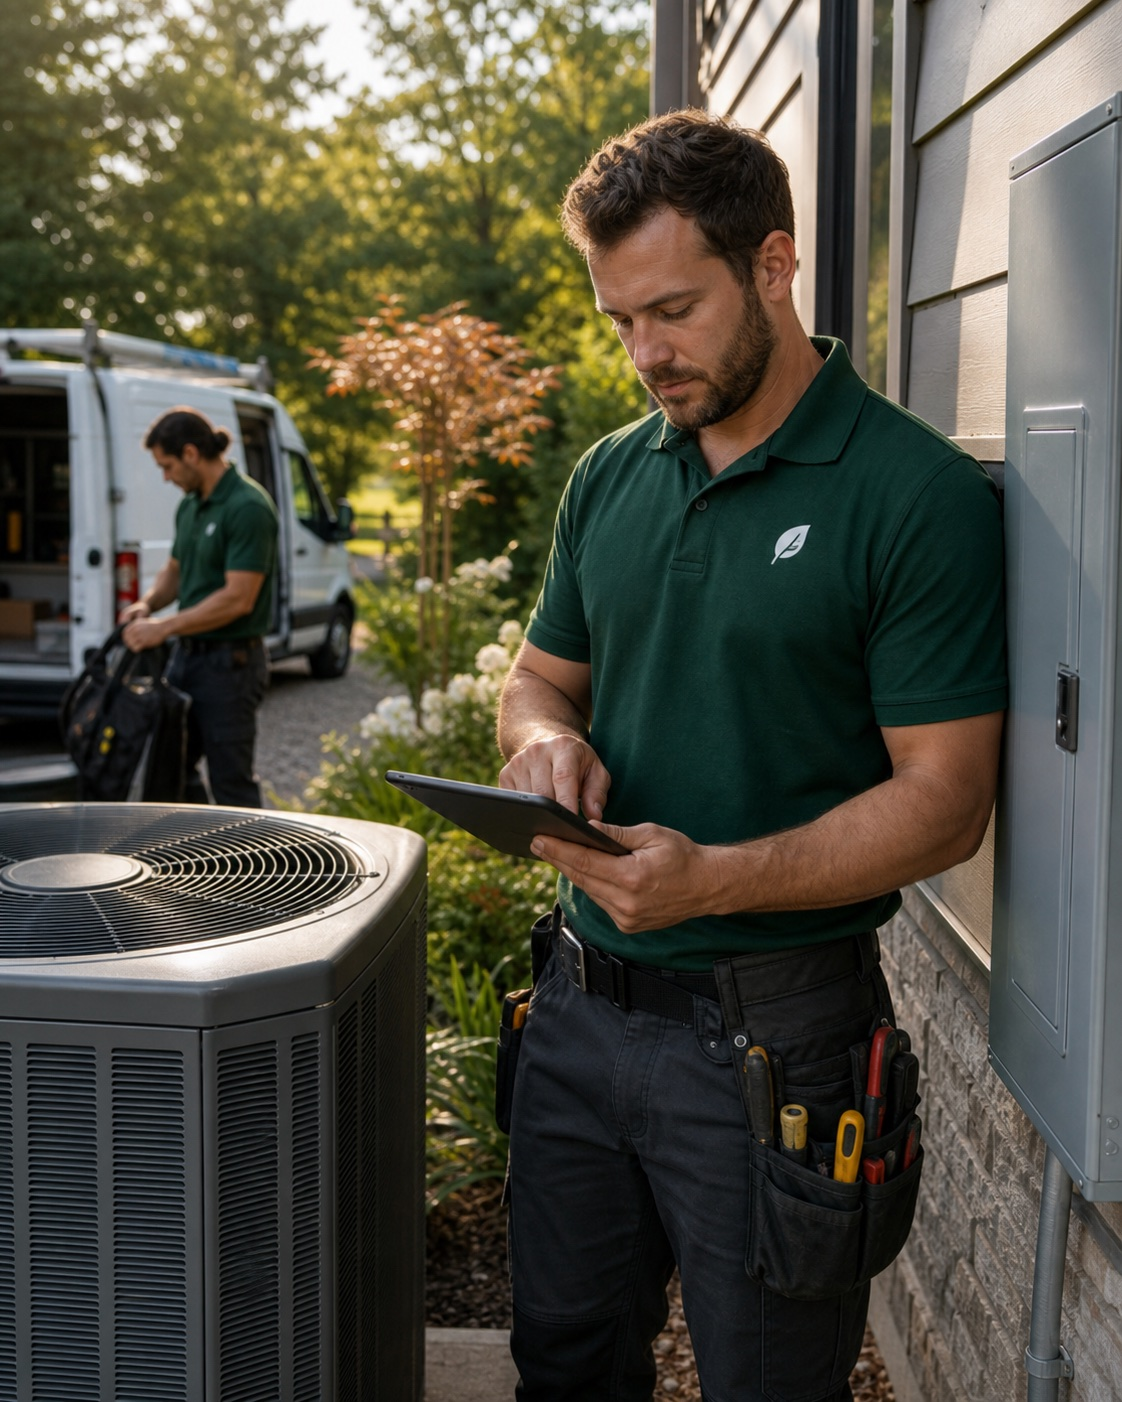
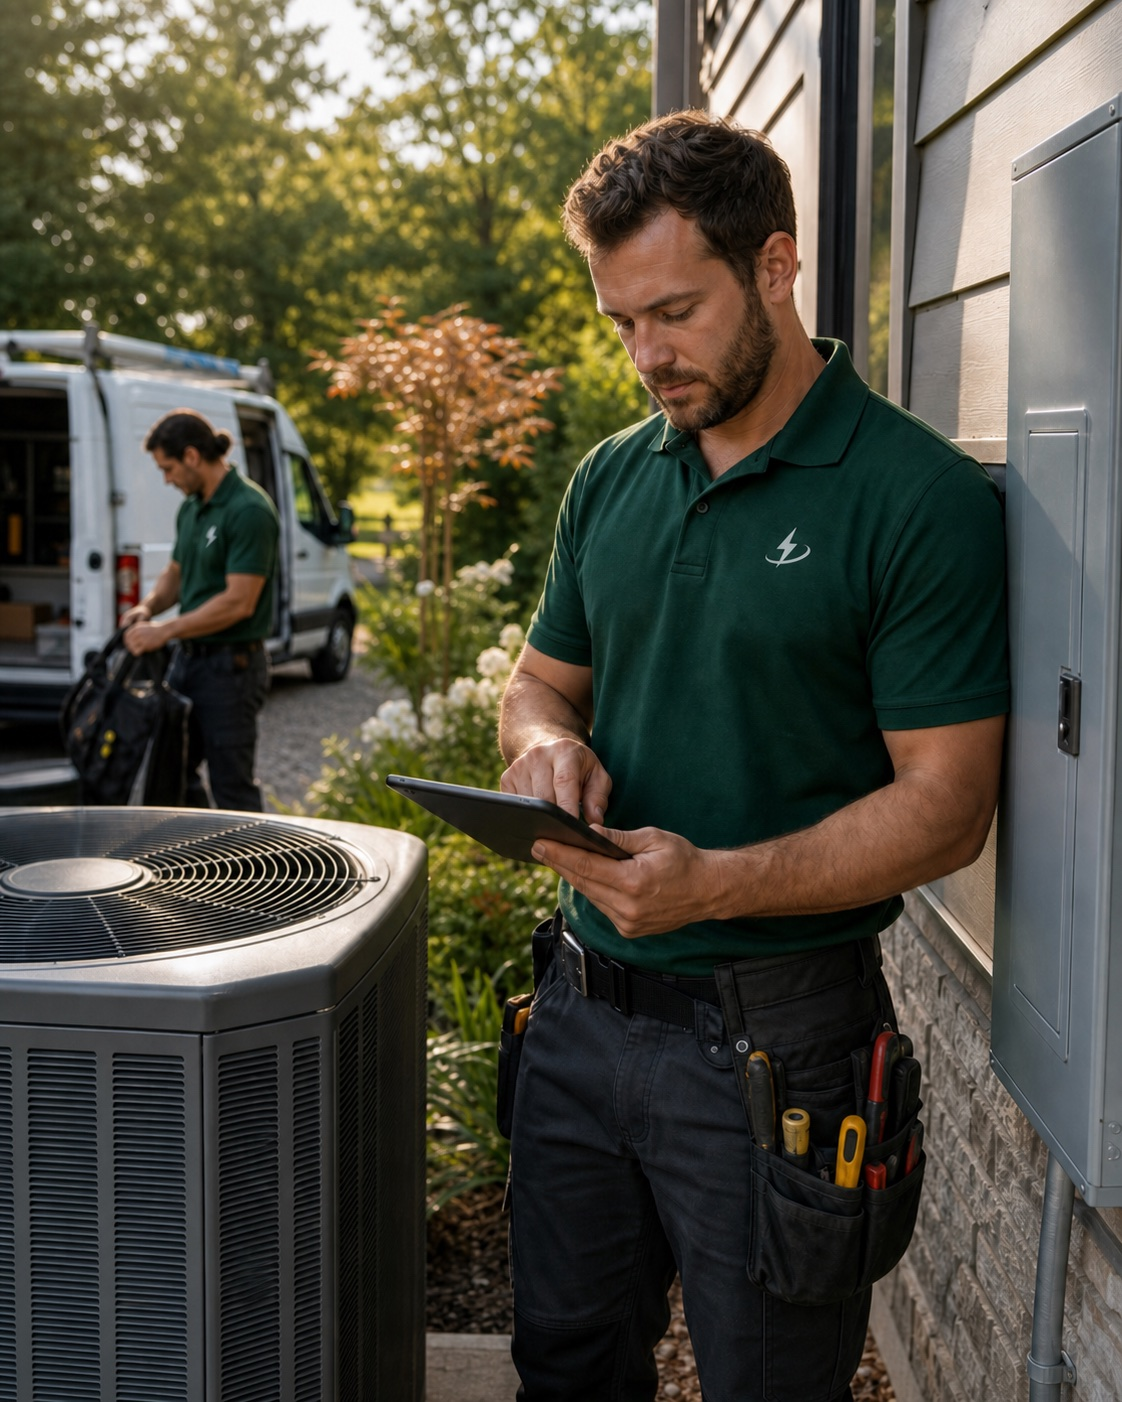
Rotate public hero scenes

diff --git a/resources/css/public-studio.css b/resources/css/public-studio.css
@@ -37,9 +37,14 @@
 
 .eb-studio-hero { min-height: 780px; position: relative; display: grid; align-items: end; overflow: clip; color: #fff; background: var(--eb-ink-deep); }
 .eb-studio-hero__media, .eb-studio-hero__media img, .eb-studio-hero__shade { position: absolute; inset: 0; width: 100%; height: 100%; }
-.eb-studio-hero__media img { object-fit: cover; object-position: center; }
-.eb-studio-hero__shade { background: linear-gradient(90deg, rgba(8,29,28,.86) 0%, rgba(9,34,32,.6) 42%, rgba(9,34,32,.12) 80%), linear-gradient(0deg, rgba(4,22,21,.55), transparent 48%); }
-.eb-studio-hero__content { position: relative; z-index: 1; padding: 192px 0 94px; max-width: min(1180px, calc(100% - 48px)); }
+.eb-studio-hero__media { z-index: 0; background: var(--eb-ink-deep); }
+.eb-studio-hero__media img { z-index: 0; object-fit: cover; object-position: center; opacity: 0; transform: scale(1.025); transition: opacity 1.05s ease; will-change: opacity, transform; }
+.eb-studio-hero__media img.is-active { z-index: 1; opacity: 1; animation: eb-studio-hero-scene 7.4s cubic-bezier(.2,.6,.3,1) both; }
+.eb-studio-hero__media img.eb-studio-hero__slide--field { object-position: 57% center; }
+.eb-studio-hero__media img.eb-studio-hero__slide--owner { object-position: center; }
+@keyframes eb-studio-hero-scene { from { transform: scale(1.025) translate3d(-.5%, 0, 0); } to { transform: scale(1.08) translate3d(.6%, -.35%, 0); } }
+.eb-studio-hero__shade { z-index: 1; background: linear-gradient(90deg, rgba(8,29,28,.86) 0%, rgba(9,34,32,.6) 42%, rgba(9,34,32,.12) 80%), linear-gradient(0deg, rgba(4,22,21,.55), transparent 48%); }
+.eb-studio-hero__content { position: relative; z-index: 2; padding: 192px 0 94px; max-width: min(1180px, calc(100% - 48px)); }
 .eb-studio-eyebrow { margin: 0 0 17px; color: var(--eb-clay); font-size: .7rem; font-weight: 800; line-height: 1.2; letter-spacing: .14em; text-transform: uppercase; }
 .eb-studio-eyebrow--light { color: #f3c8aa; }
 .eb-studio-hero h1 { max-width: 760px; margin: 0; color: #fffdf7; font-size: clamp(3.35rem, 7vw, 6.2rem); line-height: .98; }
@@ -113,6 +118,7 @@
 
 @media (prefers-reduced-motion: reduce) {
     .eb-studio-body *, .eb-studio-body *::before, .eb-studio-body *::after { scroll-behavior: auto !important; transition-duration: .01ms !important; animation-duration: .01ms !important; animation-iteration-count: 1 !important; }
+    .eb-studio-hero__media img:not(.is-active) { display: none; }
     .eb-studio-industry-card:hover::before { transform: none; }
 }
 

diff --git a/resources/js/public-studio.js b/resources/js/public-studio.js
@@ -64,6 +64,33 @@ function mountFilm(root) {
     dialog.addEventListener("close", () => restoreFocusTo?.focus());
 }
 
+function mountHeroSceneRotation(reducedMotion) {
+    const hero = document.querySelector("[data-studio-hero]");
+    const slides = hero ? [...hero.querySelectorAll("[data-studio-hero-slide]")] : [];
+    if (!hero || slides.length < 2) return;
+
+    let activeIndex = slides.findIndex((slide) => slide.classList.contains("is-active"));
+    activeIndex = activeIndex >= 0 ? activeIndex : 0;
+    const activate = (index) => {
+        slides.forEach((slide, slideIndex) => slide.classList.toggle("is-active", slideIndex === index));
+    };
+
+    activate(activeIndex);
+    hero.dataset.studioHeroRotation = reducedMotion ? "reduced" : "active";
+    if (reducedMotion) return;
+
+    const advance = () => {
+        activeIndex = (activeIndex + 1) % slides.length;
+        activate(activeIndex);
+    };
+
+    let interval = window.setInterval(advance, 7000);
+    document.addEventListener("visibilitychange", () => {
+        window.clearInterval(interval);
+        if (!document.hidden) interval = window.setInterval(advance, 7000);
+    });
+}
+
 export async function mountPublicStudioNow() {
     const root = document.querySelector("[data-studio-story]");
     if (!root || root.dataset.studioMounted === "true") return;
@@ -72,6 +99,8 @@ export async function mountPublicStudioNow() {
     const frame = root.querySelector("[data-studio-frame]");
     const triggers = [...root.querySelectorAll("[data-studio-step]")];
     const reducedMotion = window.matchMedia("(prefers-reduced-motion: reduce)").matches;
+
+    mountHeroSceneRotation(reducedMotion);
 
     const applyMoment = async (key, animate = !reducedMotion) => {
         const moment = workflowMoments[key];
@@ -112,10 +141,7 @@ export async function mountPublicStudioNow() {
     triggers.forEach((trigger) => trigger.addEventListener("click", () => applyMoment(trigger.dataset.studioStep)));
     mountFilm(document);
 
-    if (reducedMotion) {
-        document.querySelectorAll(".eb-studio-hero video").forEach((video) => video.pause());
-        return;
-    }
+    if (reducedMotion) return;
 
     const [{ gsap }, { ScrollTrigger }] = await Promise.all([import("gsap"), import("gsap/ScrollTrigger")]);
     gsap.registerPlugin(ScrollTrigger);

diff --git a/tests/e2e/public/studio-landing.spec.ts b/tests/e2e/public/studio-landing.spec.ts
@@ -31,7 +31,16 @@ test.describe("Everbranch public studio", () => {
         await page.emulateMedia({ reducedMotion: "reduce" });
         await page.goto("/platform/promo");
         await expect(page.locator("[data-studio-story]")).toHaveAttribute("data-studio-mounted", "true");
-        await expect(page.locator(".eb-studio-hero video")).toHaveJSProperty("paused", true);
+        await expect(page.locator("[data-studio-hero]")).toHaveAttribute("data-studio-hero-rotation", "reduced");
+        await expect(page.locator("[data-studio-hero-slide]")).toHaveCount(3);
+        await expect(page.locator("[data-studio-hero-slide].is-active")).toHaveCount(1);
+    });
+
+    test("rotates the field-service and owner hero scenes", async ({ page }) => {
+        await page.goto("/platform/promo");
+        await expect(page.locator("[data-studio-hero]")).toHaveAttribute("data-studio-hero-rotation", "active");
+        await expect(page.locator("[data-studio-hero-slide]")).toHaveCount(3);
+        await expect(page.locator("[data-studio-hero-slide]").nth(2)).toHaveAttribute("src", /everbranch-field-owner-office\.jpg/);
     });
 
     test("has a stable public landing visual", async ({ page }) => {

diff --git a/resources/views/platform/promo.blade.php b/resources/views/platform/promo.blade.php
@@ -39,9 +39,11 @@
     </header>
 
     <main id="main-content">
-        <section id="top" class="eb-studio-hero" aria-labelledby="hero-title">
+        <section id="top" class="eb-studio-hero" aria-labelledby="hero-title" data-studio-hero>
             <div class="eb-studio-hero__media" aria-hidden="true">
-                <img src="{{ asset('images/public-site/everbranch-hvac-electrical-hero.jpg') }}" alt="" fetchpriority="high" />
+                <img class="eb-studio-hero__slide is-active" data-studio-hero-slide src="{{ asset('images/public-site/everbranch-hvac-electrical-hero.jpg') }}" alt="" fetchpriority="high" decoding="async" />
+                <img class="eb-studio-hero__slide eb-studio-hero__slide--field" data-studio-hero-slide src="{{ asset('images/public-site/everbranch-hvac-electrical-field.jpg') }}" alt="" decoding="async" />
+                <img class="eb-studio-hero__slide eb-studio-hero__slide--owner" data-studio-hero-slide src="{{ asset('images/public-site/everbranch-field-owner-office.jpg') }}" alt="" decoding="async" />
             </div>
             <div class="eb-studio-hero__shade"></div>
             <div class="eb-studio-container eb-studio-hero__content" data-studio-reveal>

diff --git a/tests/Feature/Public/PublicExperienceRoutesTest.php b/tests/Feature/Public/PublicExperienceRoutesTest.php
@@ -18,6 +18,10 @@ test('guest home route renders the marketing landing page by default', function 
         ->assertSee('data-studio-film', false)
         ->assertSee('everbranch-hvac-electrical-hero.jpg', false)
         ->assertSee('everbranch-hvac-electrical-field.jpg', false)
+        ->assertSee('everbranch-field-owner-office.jpg', false)
+        ->assertSee('data-studio-hero-slide', false)
+        ->assertSee('everbranch-field-owner-office.jpg', false)
+        ->assertSee('data-studio-hero-slide', false)
         ->assertSeeText('Become a launch partner')
         ->assertSeeText('Log in')
         ->assertSee('brand/everbranch-lockup.svg?v='.$cacheTag, false)

diff --git a/tests/Feature/ShopifyCommercializationPagesTest.php b/tests/Feature/ShopifyCommercializationPagesTest.php
@@ -22,6 +22,8 @@ test('promo page renders the public studio story and preserves conversion paths'
         ->assertSee('data-studio-film', false)
         ->assertSee('everbranch-hvac-electrical-hero.jpg', false)
         ->assertSee('everbranch-hvac-electrical-field.jpg', false)
+        ->assertSee('everbranch-field-owner-office.jpg', false)
+        ->assertSee('data-studio-hero-slide', false)
         ->assertSeeText('Your business has a rhythm.')
         ->assertSeeText('Everbranch helps you keep it.')
         ->assertSeeText('One flat price for the business. No per-user fees.')

diff --git a/tests/Feature/Public/EvergroveServicesSiteTest.php b/tests/Feature/Public/EvergroveServicesSiteTest.php
@@ -62,6 +62,8 @@ test('everbranch public host keeps the everbranch product surface', function ():
         ->assertSee('data-studio-film', false)
         ->assertSee('everbranch-hvac-electrical-hero.jpg', false)
         ->assertSee('everbranch-hvac-electrical-field.jpg', false)
+        ->assertSee('everbranch-field-owner-office.jpg', false)
+        ->assertSee('data-studio-hero-slide', false)
         ->assertSeeText('Retail & product brands')
         ->assertSeeText('Field & service teams')
         ->assertSee(route('platform.plans'), false)

diff --git a/SYSTEM_SNAPSHOT.md b/SYSTEM_SNAPSHOT.md
@@ -8,8 +8,10 @@
   workspaces, tenant websites, Shopify integrations or embedded apps, pricing
   logic, or the `platform.access-request` conversion path.
 - The homepage uses approved/public-safe editorial media and fictional product
-  data. Hero video is muted WebM with H.264 fallback and a poster; public-only
-  GSAP motion is dynamically loaded and reduced-motion aware. See
+  data. Its hero crossfades between three lightweight still scenes, including
+  field technicians and a business owner planning work in the office. The
+  movement is disabled for reduced-motion users; public-only GSAP motion is
+  dynamically loaded for the product story. See
   `docs/operations/public-site-media-runbook.md` for media provenance,
   caption/transcript, derivative, and release requirements.
 - Visual checks live in `tests/e2e/public` and run with

diff --git a/docs/ui/UI_CHANGELOG.md b/docs/ui/UI_CHANGELOG.md
@@ -14,6 +14,15 @@
 - This change does not touch Shopify apps, embedded surfaces, tenant websites,
   authenticated workspaces, or Modern Forestry operations.
 
+### Follow-up: field-service hero sequence
+
+- The public hero now crossfades through original HVAC/electrical field scenes
+  and an owner planning work in the office, with a subtle camera drift rather
+  than a static background.
+- Technician polos use a small original lightning-and-airflow trade emblem.
+  The rotating treatment respects reduced-motion preferences and leaves the
+  first still visible if JavaScript is unavailable.
+
 ## 2026-08-02 — Instant Website addresses and simpler custom domains
 
 - Website now shows the automatically reserved `<workspace>.theeverbranch.com` address as a first-class live/reserved status card.

diff --git a/docs/operations/public-site-media-runbook.md b/docs/operations/public-site-media-runbook.md
@@ -15,6 +15,11 @@ data. Product walkthrough captures use demo or anonymized data.
   npm run media:optimize-public -- path/to/approved-source.jpg everbranch-story
   ```
 
+- The hero may use a small crossfading still-image sequence. Keep the first
+  image eager with `fetchpriority="high"`, use no more than three scenes, and
+  retain a static first frame when JavaScript or motion is unavailable. Disable
+  the sequence entirely for `prefers-reduced-motion`.
+
 - For essential muted loops, produce WebM first and H.264 MP4 fallback with
   deterministic FFmpeg settings. Include a poster image, `playsinline`, and
   `preload="metadata"`. Do not autoplay sound.
